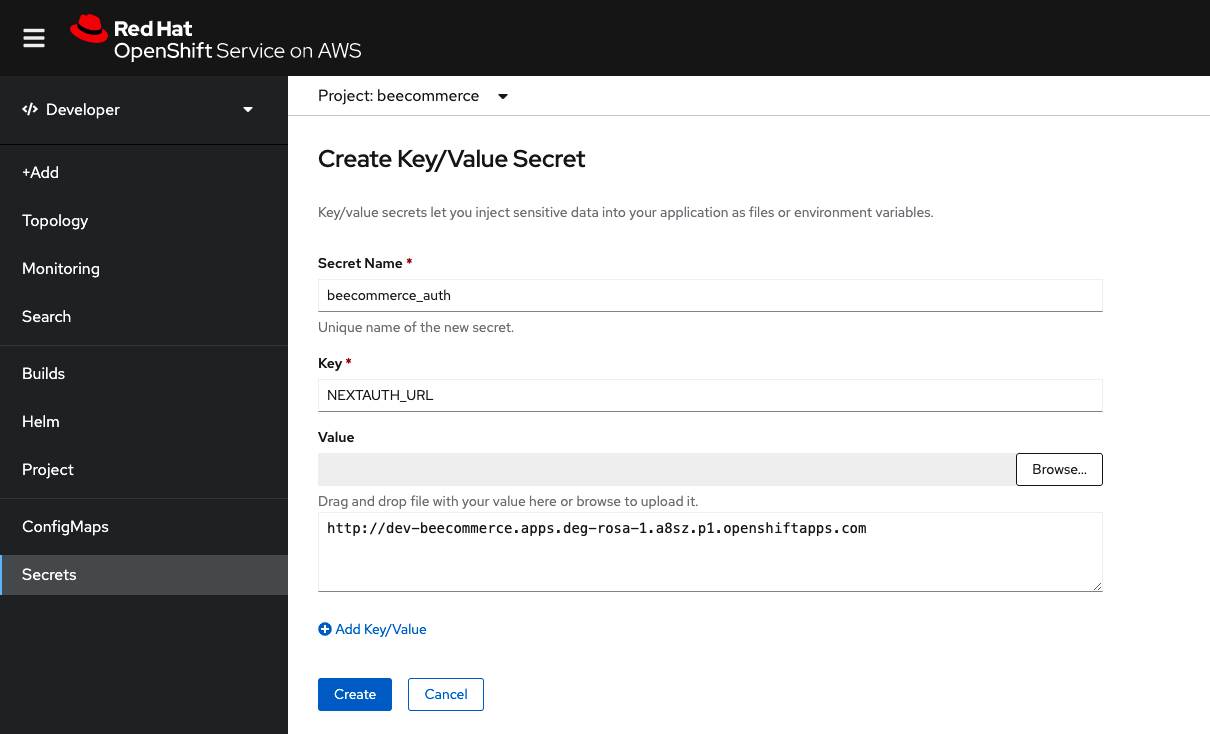
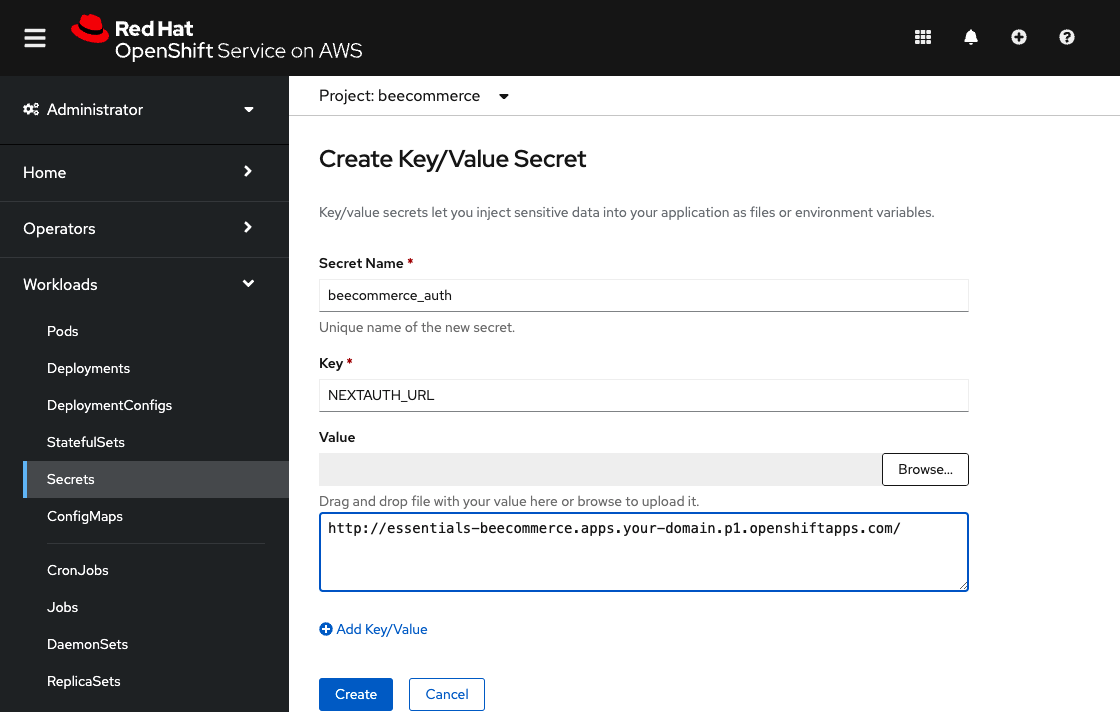
More AWS app config screenshots and more in sync w/ instructions
The screenshot wasn't quite what the instructions said.
Also, there were a lot of instructions w/ minimal screenshots
which might have been good enough, but was really confusing if
you went looking for screen elements that were not pictured.
So more screenshots were added.

diff --git a/doc/source/aws_app.md b/doc/source/aws_app.md
@@ -69,16 +69,26 @@ You can create a secret or a config map and assign it to your workload using the
 * Select `Secrets`
 * Hit the `Create` button
 * Select `Key/value secret`
-* Give the secret a `Name`
+
+![create_key_value_secret](images/create_key_value_secret.png)
+* Give the secret a `Secret Name`
 * Set the first `Key` to `NEXTAUTH_URL`
 * In the text box under `Value` enter the host of your exposed service adding a prefix of `http://`. This is the URL you would use if you open your app in a browser.
 * *Optionally*, click on  `Add Key/Value` if you want to set a DSE_KEYSPACE (other than our default of *ks1*) or a DSE_USERNAME and DSE_PASSWORD to use instead of the superuser secret used above.
+* Hit the `Create` button
+
+![create_secret](images/create_secret.png)
+
 * Hit the `Add Secret to workload` button
+
+![add_secret_to_workload2](images/add_secret_to_workload2.png)
+
 * Use the `Select a workload` pulldown to select your application (e.g. *essentials* in our example).
 * Hit the `Save` button
 * The application will restart with an environment that includes the environment variables that you set using a key/value secret.
 
-![create_secret](images/create_secret.png)
+![add_secret_to_workload3](images/add_secret_to_workload3.png)
+
 
 ## Interact with the application
 
